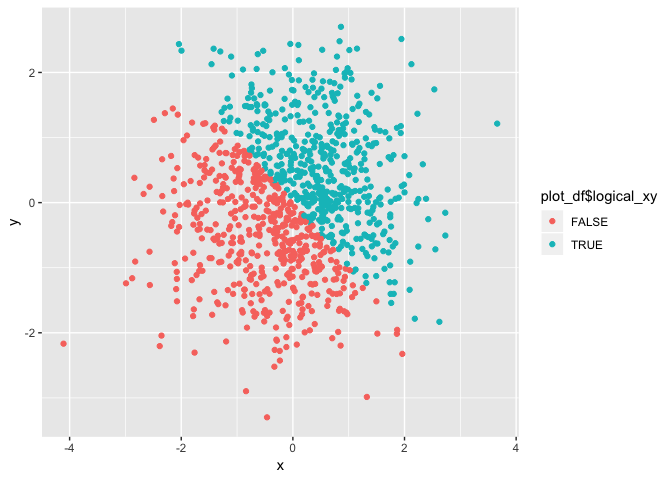
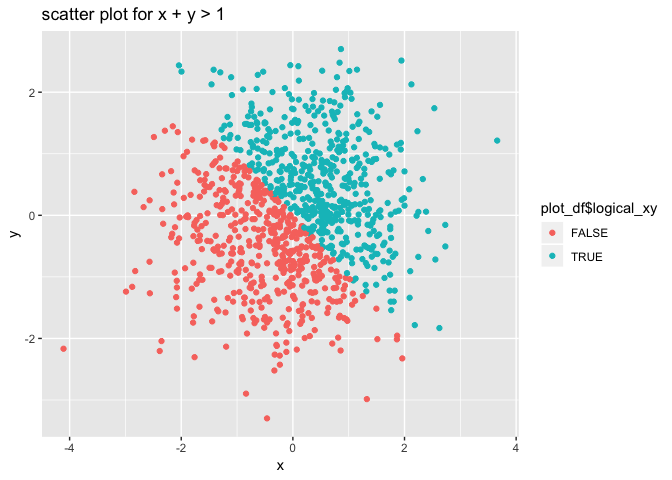
Add titles to problem2 scatterplot

diff --git a/p8105_hw1_xs2330.md b/p8105_hw1_xs2330.md
@@ -48,7 +48,7 @@ df_problem1 = tibble(
 df_mean = sapply(df_problem1, mean)
 ```
 
-Warning messages generated for character variable and factor variable, returning NA
+The num variable and logical variable got the mean successfully Warning messages generated for character variable and factor variable, returning NA
 
 **Convert variables that are not numeric to numeric**
 
@@ -92,20 +92,20 @@ plot_df = tibble(
 **Making ggplot of x and y**
 
 ``` r
-ggplot(plot_df, aes(x = x, y = y, color = plot_df$logical_xy)) + geom_point()
+ggplot(plot_df, aes(x = x, y = y, color = plot_df$logical_xy)) + geom_point() + ggtitle("scatter plot for x + y > 1")
 ```
 
 ![](p8105_hw1_xs2330_files/figure-markdown_github/plotting%20plot_df-1.png)
 
 ``` r
 ggsave("scatter_plot_x+y>1.pdf", height = 4, width = 6)
-ggplot(plot_df, aes(x = x, y = y, color = plot_df$logical_to_num_xy)) + geom_point()
+ggplot(plot_df, aes(x = x, y = y, color = plot_df$logical_to_num_xy)) + geom_point() + ggtitle("scatter plot for x + y > 1")
 ```
 
 ![](p8105_hw1_xs2330_files/figure-markdown_github/plotting%20plot_df-2.png)
 
 ``` r
-ggplot(plot_df, aes(x = x, y = y, color = plot_df$num_to_factor_xy)) + geom_point()
+ggplot(plot_df, aes(x = x, y = y, color = plot_df$num_to_factor_xy)) + geom_point() + ggtitle("scatter plot for x + y > 1")
 ```
 
 ![](p8105_hw1_xs2330_files/figure-markdown_github/plotting%20plot_df-3.png)
